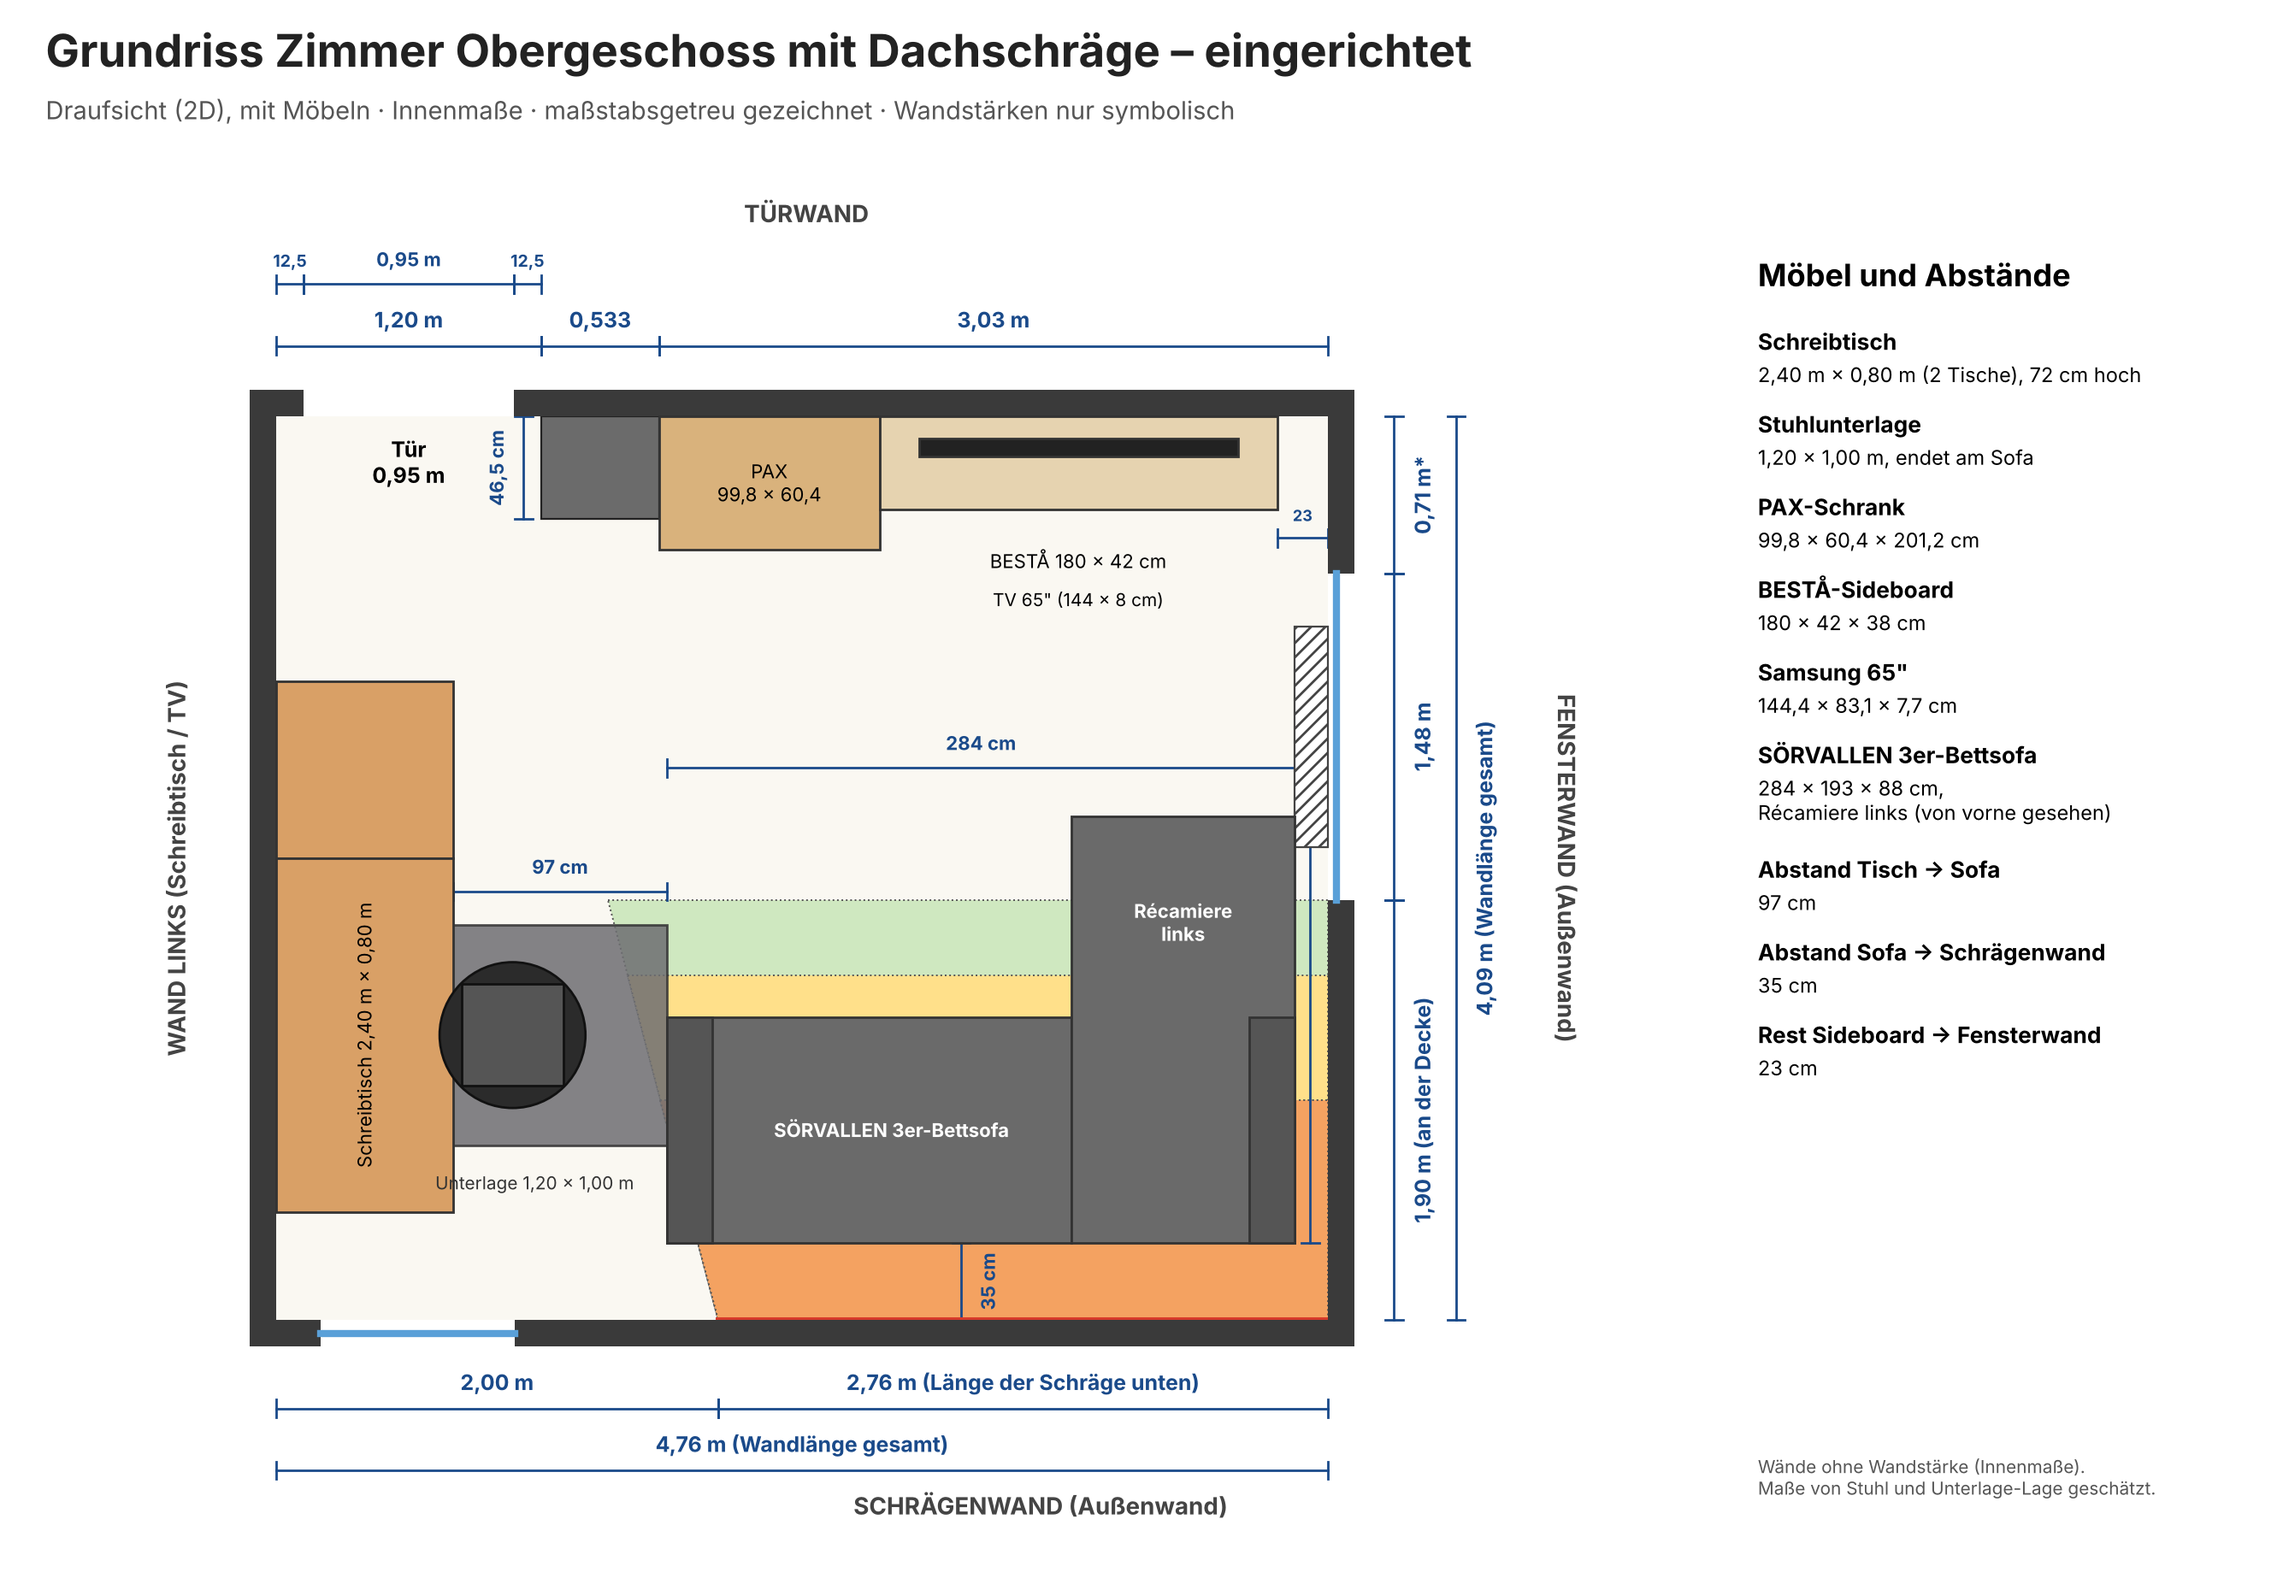
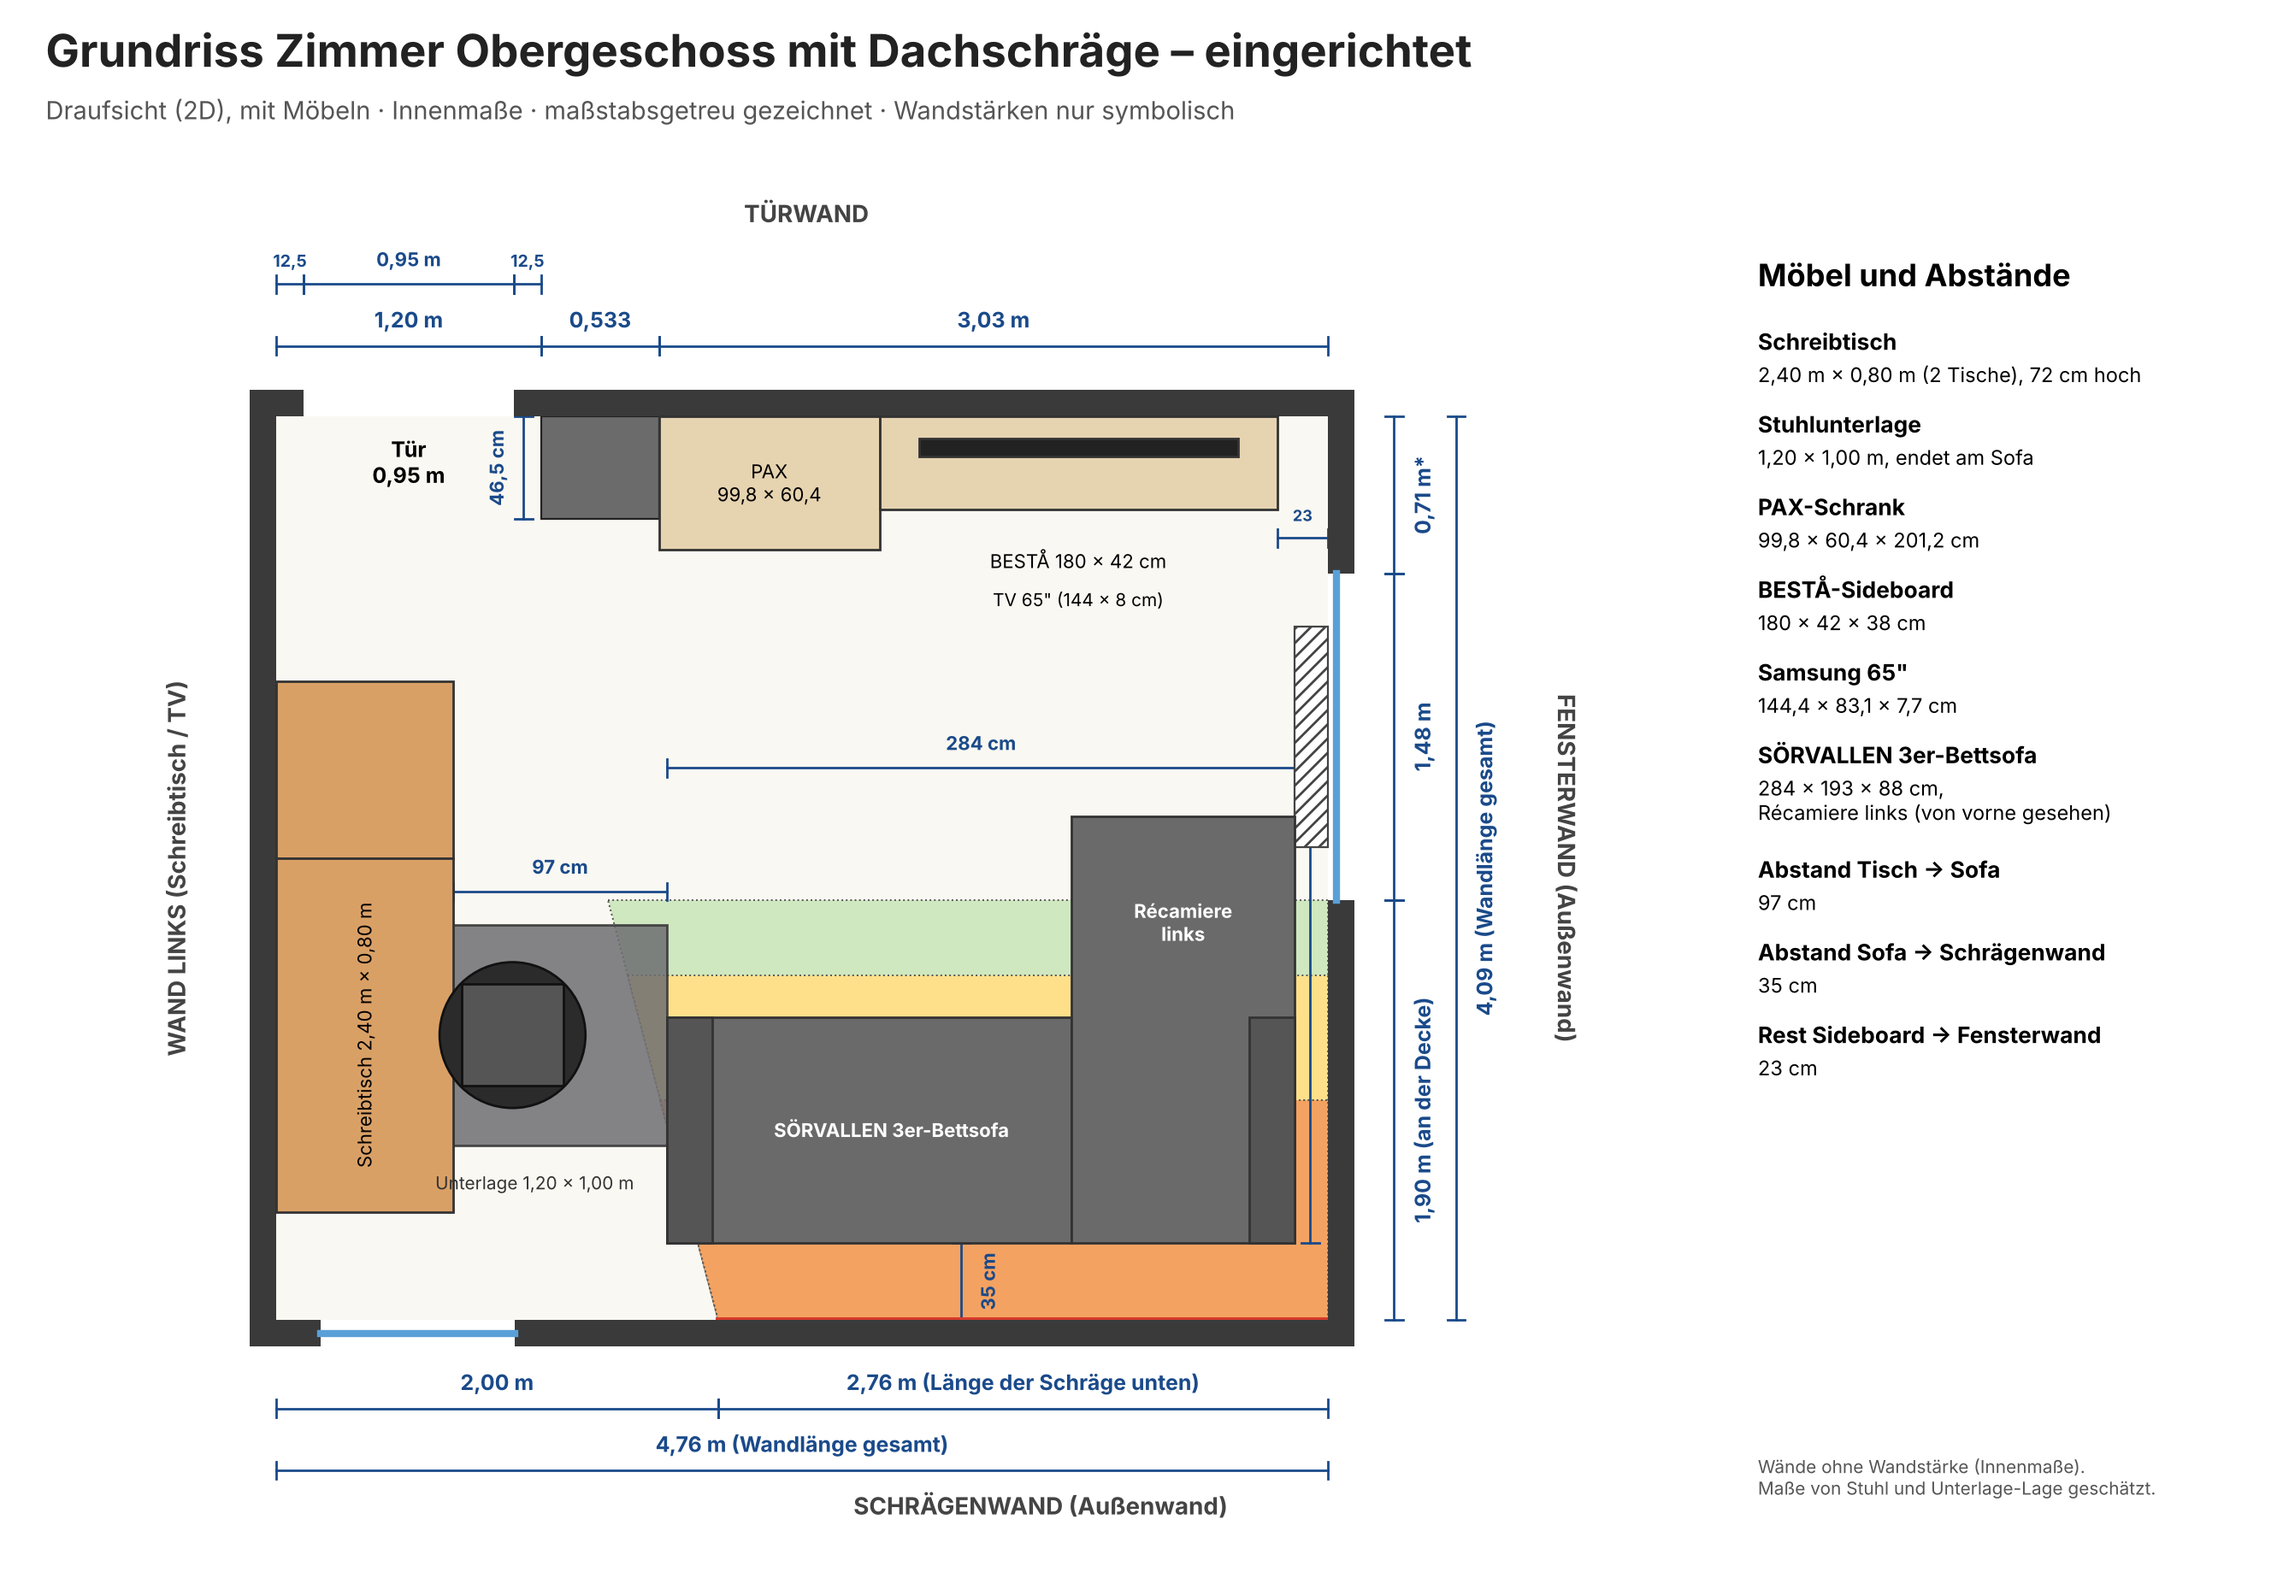
Schrank (PAX) und Sideboard (BESTÅ) in gleicher Eichenfarbe
Claude-Session: https://claude.ai/code/session_01Hf3Bkowp5NFKLbRns8Nosg

Changed region(s): [[0.2798, 0.2495, 0.4041, 0.343]]

diff --git a/eingerichtet.html b/eingerichtet.html
@@ -166,9 +166,9 @@ box(0,Y0,DHT-DT,DEP,Y1,DHT,BEECH);   // Tisch rechts (0,80 m, Türseite)
 cat='schrank';
 // Schrank (IKEA PAX, 99,8 x 60,4 x 201,2 cm) direkt neben dem Mauervorsprung an der Türwand
 var PX0=1.733,PW=0.998,PD=0.604,PH=2.012;
-box(PX0,0,0.04,PX0+PW,PD,PH,0xd9b27c);                              // Korpus + Türen (Eiche)
+box(PX0,0,0.04,PX0+PW,PD,PH,0xe6d3b0);                              // Korpus + Türen (Eiche)
 box(PX0+0.01,0.01,0,PX0+PW-0.01,PD-0.03,0.04,0x8d8d85);             // Sockel
-box(PX0+PW/2-0.002,PD,0.06,PX0+PW/2+0.002,PD+0.002,PH-0.03,0x8a6a3a); // Türfuge
+box(PX0+PW/2-0.002,PD,0.06,PX0+PW/2+0.002,PD+0.002,PH-0.03,0x9a8760); // Türfuge
 box(PX0+PW/2-0.012,PD,0.95,PX0+PW/2+0.012,PD+0.025,1.25,0x1b1b1b);  // Griff
 cat='sideboard';
 // Sideboard (IKEA BESTÅ, 180 x 42 x 38 cm) direkt neben dem Schrank, auf dem Boden

diff --git a/eingerichtet_mobil.html b/eingerichtet_mobil.html
@@ -183,9 +183,9 @@ box(0,Y0,DHT-DT,DEP,Y1,DHT,BEECH);   // Tisch rechts (0,80 m, Türseite)
 cat='schrank';
 // Schrank (IKEA PAX, 99,8 x 60,4 x 201,2 cm) direkt neben dem Mauervorsprung an der Türwand
 var PX0=1.733,PW=0.998,PD=0.604,PH=2.012;
-box(PX0,0,0.04,PX0+PW,PD,PH,0xd9b27c);                              // Korpus + Türen (Eiche)
+box(PX0,0,0.04,PX0+PW,PD,PH,0xe6d3b0);                              // Korpus + Türen (Eiche)
 box(PX0+0.01,0.01,0,PX0+PW-0.01,PD-0.03,0.04,0x8d8d85);             // Sockel
-box(PX0+PW/2-0.002,PD,0.06,PX0+PW/2+0.002,PD+0.002,PH-0.03,0x8a6a3a); // Türfuge
+box(PX0+PW/2-0.002,PD,0.06,PX0+PW/2+0.002,PD+0.002,PH-0.03,0x9a8760); // Türfuge
 box(PX0+PW/2-0.012,PD,0.95,PX0+PW/2+0.012,PD+0.025,1.25,0x1b1b1b);  // Griff
 cat='sideboard';
 // Sideboard (IKEA BESTÅ, 180 x 42 x 38 cm) direkt neben dem Schrank, auf dem Boden

diff --git a/interaktiv.html b/interaktiv.html
@@ -166,9 +166,9 @@ box(0,Y0,DHT-DT,DEP,Y1,DHT,BEECH);   // Tisch rechts (0,80 m, Türseite)
 cat='schrank';
 // Schrank (IKEA PAX, 99,8 x 60,4 x 201,2 cm) direkt neben dem Mauervorsprung an der Türwand
 var PX0=1.733,PW=0.998,PD=0.604,PH=2.012;
-box(PX0,0,0.04,PX0+PW,PD,PH,0xd9b27c);                              // Korpus + Türen (Eiche)
+box(PX0,0,0.04,PX0+PW,PD,PH,0xe6d3b0);                              // Korpus + Türen (Eiche)
 box(PX0+0.01,0.01,0,PX0+PW-0.01,PD-0.03,0.04,0x8d8d85);             // Sockel
-box(PX0+PW/2-0.002,PD,0.06,PX0+PW/2+0.002,PD+0.002,PH-0.03,0x8a6a3a); // Türfuge
+box(PX0+PW/2-0.002,PD,0.06,PX0+PW/2+0.002,PD+0.002,PH-0.03,0x9a8760); // Türfuge
 box(PX0+PW/2-0.012,PD,0.95,PX0+PW/2+0.012,PD+0.025,1.25,0x1b1b1b);  // Griff
 cat='sideboard';
 // Sideboard (IKEA BESTÅ, 180 x 42 x 38 cm) direkt neben dem Schrank, auf dem Boden

diff --git a/interaktiv_mobil.html b/interaktiv_mobil.html
@@ -183,9 +183,9 @@ box(0,Y0,DHT-DT,DEP,Y1,DHT,BEECH);   // Tisch rechts (0,80 m, Türseite)
 cat='schrank';
 // Schrank (IKEA PAX, 99,8 x 60,4 x 201,2 cm) direkt neben dem Mauervorsprung an der Türwand
 var PX0=1.733,PW=0.998,PD=0.604,PH=2.012;
-box(PX0,0,0.04,PX0+PW,PD,PH,0xd9b27c);                              // Korpus + Türen (Eiche)
+box(PX0,0,0.04,PX0+PW,PD,PH,0xe6d3b0);                              // Korpus + Türen (Eiche)
 box(PX0+0.01,0.01,0,PX0+PW-0.01,PD-0.03,0.04,0x8d8d85);             // Sockel
-box(PX0+PW/2-0.002,PD,0.06,PX0+PW/2+0.002,PD+0.002,PH-0.03,0x8a6a3a); // Türfuge
+box(PX0+PW/2-0.002,PD,0.06,PX0+PW/2+0.002,PD+0.002,PH-0.03,0x9a8760); // Türfuge
 box(PX0+PW/2-0.012,PD,0.95,PX0+PW/2+0.012,PD+0.025,1.25,0x1b1b1b);  // Griff
 cat='sideboard';
 // Sideboard (IKEA BESTÅ, 180 x 42 x 38 cm) direkt neben dem Schrank, auf dem Boden
